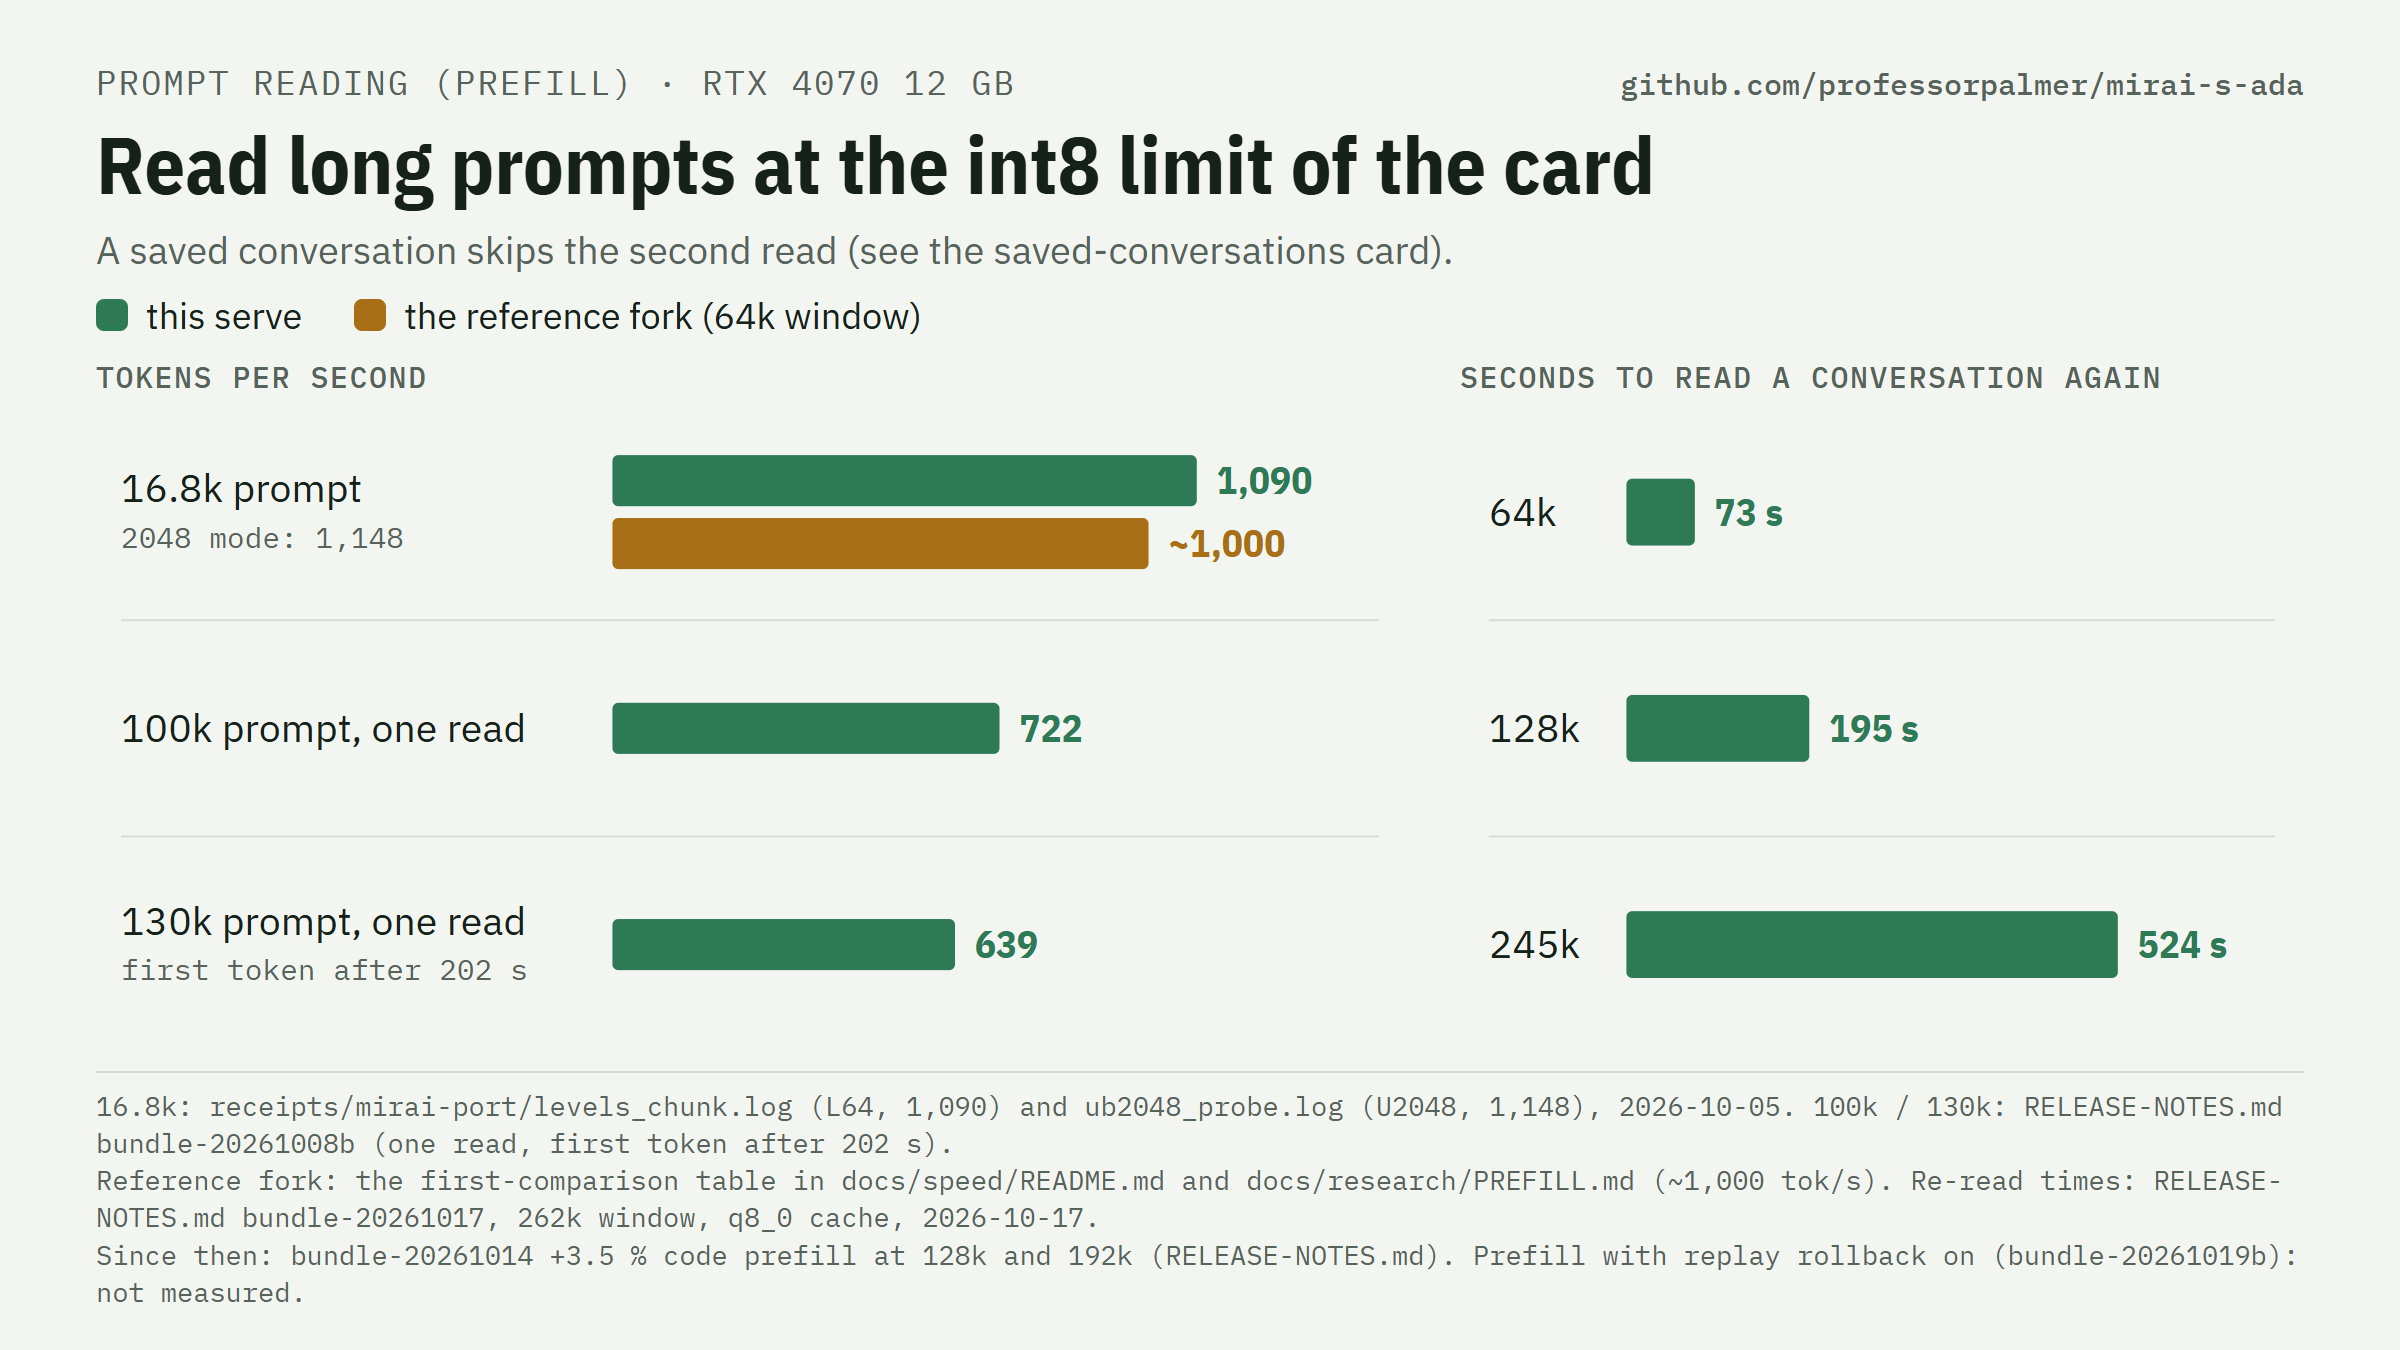
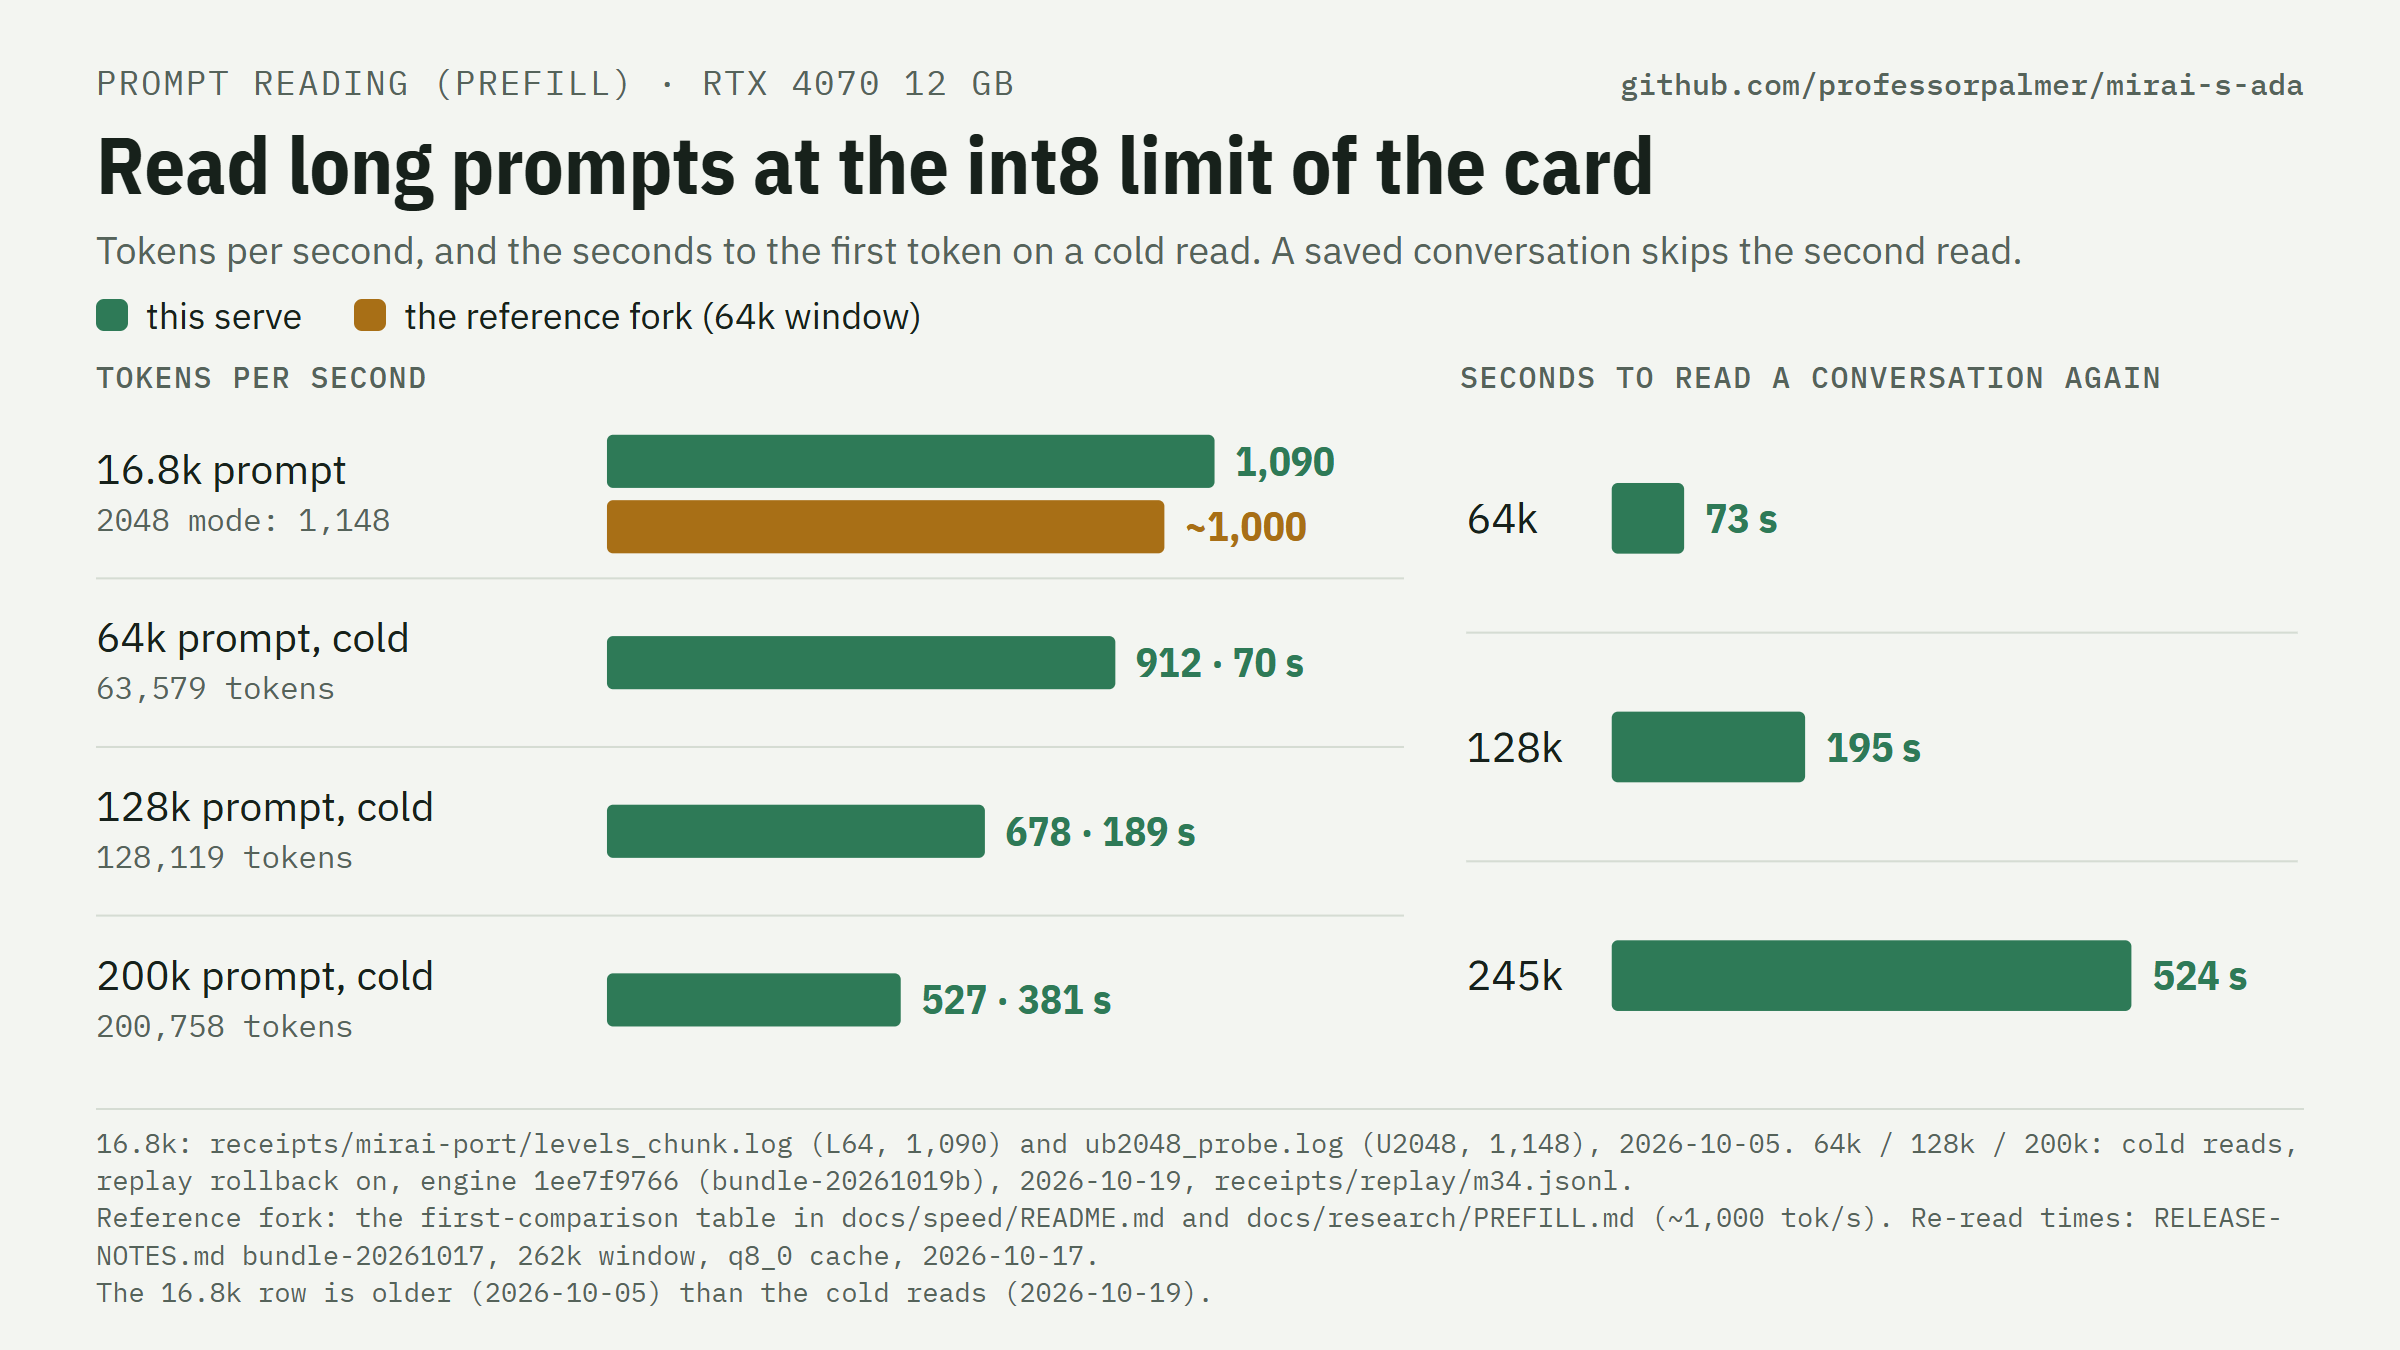
docs: prefill card and speed page use the cold reads with replay rollback on (receipts/replay/m34.jsonl, engine 1ee7f9766)

diff --git a/docs/cards/prefill.html b/docs/cards/prefill.html
@@ -6,19 +6,21 @@
 <script>
 var DATA = {
   foot: [
-    '16.8k: receipts/mirai-port/levels_chunk.log (L64, 1,090) and ub2048_probe.log (U2048, 1,148), 2026-10-05. 100k / 130k: RELEASE-NOTES.md bundle-20261008b (one read, first token after 202 s).',
+    '16.8k: receipts/mirai-port/levels_chunk.log (L64, 1,090) and ub2048_probe.log (U2048, 1,148), 2026-10-05. 64k / 128k / 200k: cold reads, replay rollback on, engine 1ee7f9766 (bundle-20261019b), 2026-10-19, receipts/replay/m34.jsonl.',
     'Reference fork: the first-comparison table in docs/speed/README.md and docs/research/PREFILL.md (~1,000 tok/s). Re-read times: RELEASE-NOTES.md bundle-20261017, 262k window, q8_0 cache, 2026-10-17.',
-    'Since then: bundle-20261014 +3.5 % code prefill at 128k and 192k (RELEASE-NOTES.md). Prefill with replay rollback on (bundle-20261019b): not measured.'
+    'The 16.8k row is older (2026-10-05) than the cold reads (2026-10-19).'
   ],
   // prefill tok/s
   rows: [
     { label: '16.8k prompt', note: '2048 mode: 1,148',
       serve: { v: 1090, text: '1,090' },            // levels_chunk.log L64 first request
       ref: { v: 1000, text: '~1,000' } },           // the first-comparison table in docs/speed/README.md
-    { label: '100k prompt, one read',
-      serve: { v: 722, text: '722' } },             // RELEASE-NOTES.md bundle-20261008b (before: 596)
-    { label: '130k prompt, one read', note: 'first token after 202 s',
-      serve: { v: 639, text: '639' } }              // RELEASE-NOTES.md bundle-20261008b (before: 509, 254 s)
+    { label: '64k prompt, cold', note: '63,579 tokens',
+      serve: { v: 912, text: '912 · 70 s' } },            // receipts/replay/m34.jsonl tag on, depth 64000: 912.3 tok/s
+    { label: '128k prompt, cold', note: '128,119 tokens',
+      serve: { v: 678, text: '678 · 189 s' } },            // receipts/replay/m34.jsonl tag on, depth 128000: 677.6 tok/s
+    { label: '200k prompt, cold', note: '200,758 tokens',
+      serve: { v: 527, text: '527 · 381 s' } }            // receipts/replay/m34.jsonl tag on, depth 200000: 527.3 tok/s
   ],
   max: 1100,
   // seconds to read a whole conversation again (no saved state), RELEASE-NOTES.md bundle-20261017 table
@@ -39,7 +41,7 @@ var DATA = {
   var body = card({
     eyebrow: 'Prompt reading (prefill) · RTX 4070 12 GB',
     title: 'Read long prompts at the int8 limit of the card',
-    sub: 'A saved conversation skips the second read (see the saved-conversations card).',
+    sub: 'Tokens per second, and the seconds to the first token on a cold read. A saved conversation skips the second read.',
     legend: [['var(--serve)', 'this serve'], ['var(--ref)', 'the reference fork (64k window)']],
     foot: D.foot
   });

diff --git a/docs/cards/saved.html b/docs/cards/saved.html
@@ -8,7 +8,7 @@ var DATA = {
   foot: [
     'RTX 4070 12 GB, 262k window, q8_0 cache. 64k / 128k / 245k: RELEASE-NOTES.md bundle-20261017 (POST /slots/0?action=save|restore; answers identical to no restart), 2026-10-17.',
     '128k document through the layer: RELEASE-NOTES.md bundle-20261017b (restore 2.2 s, 39 new tokens). Delta saves: bundle-20261018b (174k conversation) and bundle-20261018c (30-turn session).',
-    'With replay rollback on (bundle-20261019b): not measured. Bar length: re-read seconds, and restore + new turn seconds.'
+    'With replay rollback on (bundle-20261019b): not measured (the cold reads with it are on the prefill card). Bar length: re-read seconds, and restore + new turn seconds.'
   ],
   // reread = seconds to read the conversation again; restore = [restore s, new turn s] after a restart
   rows: [

diff --git a/docs/speed/README.md b/docs/speed/README.md
@@ -71,18 +71,22 @@ replay rollback, and the newer runs use a different prompt.
 
 ## Prompt reading (prefill)
 
-![Prompt reading on the RTX 4070 12 GB: a 16.8k prompt at 1,090 tok/s (2048 mode 1,148; the reference fork ~1,000), a 100k prompt at 722 tok/s, a 130k prompt at 639 tok/s with the first token after 202 s. Reading a whole conversation again takes 73 s at 64k, 195 s at 128k and 524 s at 245k](img/prefill.png)
+![Prompt reading on the RTX 4070 12 GB: a 16.8k prompt at 1,090 tok/s (2048 mode 1,148; the reference fork ~1,000), cold reads with replay rollback on: 64k at 912 tok/s (first token after 70 s), 128k at 678 tok/s (189 s), 200k at 527 tok/s (381 s). Reading a whole conversation again takes 73 s at 64k, 195 s at 128k and 524 s at 245k](img/prefill.png)
 
 | Prompt | tok/s | Source |
 | --- | ---: | --- |
 | 16.8k tokens, the default (micro-batch 1024) | 1,090 | `receipts/mirai-port/levels_chunk.log`, 2026-10-05 |
 | 16.8k tokens, `MIRAI_UBATCH=2048` (approximately 570 MiB more VRAM) | 1,148 | `receipts/mirai-port/ub2048_probe.log`, 2026-10-05 |
-| 100k tokens, one read | 722 (before bundle-20261008b: 596) | release notes, bundle-20261008b |
-| 130k tokens, one read | 639, first token after 202 s (before: 509, 254 s) | release notes, bundle-20261008b |
+| 4k tokens, cold, replay rollback on | 1,120, first token after 3.5 s | `receipts/replay/m34.jsonl`, 2026-10-19 |
+| 64k tokens, cold, replay rollback on | 912, first token after 70 s | `receipts/replay/m34.jsonl`, 2026-10-19 |
+| 128k tokens, cold, replay rollback on | 678, first token after 189 s | `receipts/replay/m34.jsonl`, 2026-10-19 |
+| 200k tokens, cold, replay rollback on | 527, first token after 381 s | `receipts/replay/m34.jsonl`, 2026-10-19 |
 | the reference fork, 16.8k tokens | approximately 1,000 | [PREFILL.md](../research/PREFILL.md) |
 
 bundle-20261014 added the chunked gated-delta-net prefill on tensor cores: code prefill +3.5 % at 128k and 192k.
-Prefill with replay rollback on (bundle-20261019b) is not measured.
+The cold reads come from the replay check of engine 1ee7f9766 (the bundle-20261019b engine): one request per depth,
+`cache_prompt: false`. With replay rollback off, the same file gives 64k-200k within 0.3 % and 4k at 1,184 tok/s
+(one request per depth, so the 4k difference can be noise).
 
 Time to read a whole conversation again, without a saved state (bundle-20261017, q8_0 cache): 73 s at 64k, 195 s at
 128k, 524 s at 245k. A saved conversation skips this read: [saved conversations](../agents-layer/SAVED_CONVERSATIONS.md).
